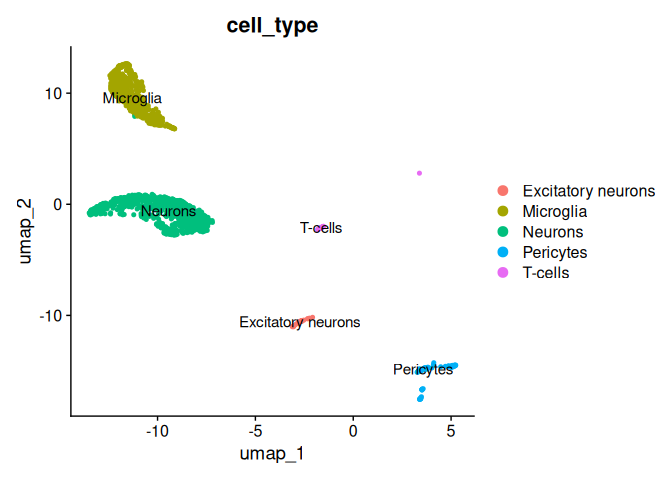
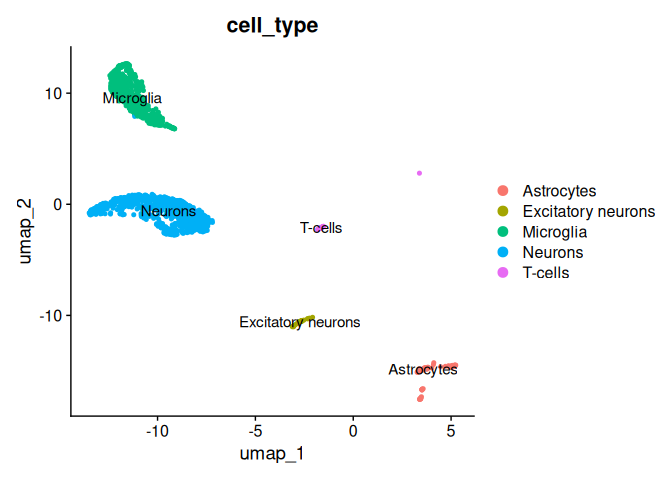
new sc

diff --git a/scRNASeq/scExample.md b/scRNASeq/scExample.md
@@ -10,6 +10,7 @@ library(SCEVAN)
 library(Seurat)
 library(dplyr)
 library(readxl)
+library(data.table)
 ```
 
 ## Load the Data
@@ -19,7 +20,7 @@ We use a glioblastoma sample (NH17-161) form the study
 GSE211376</a>.
 
 ``` r
-count_mtx <- data.table::fread("https://github.com/ceccarellilab/CancerBioinformaticsCourse/raw/refs/heads/main/scRNASeq/sample_NH17-161_GSE211376.csv.gz")
+count_mtx <- fread("https://github.com/ceccarellilab/CancerBioinformaticsCourse/raw/refs/heads/main/scRNASeq/sample_NH17-161_GSE211376.csv.gz")
 rownames(count_mtx)<- count_mtx$V1
 count_mtx$V1 <- NULL
 ```
@@ -29,6 +30,11 @@ count_mtx$V1 <- NULL
 We can use
 <a target="_blank" href="https://github.com/AntonioDeFalco/SCEVAN">
 SCEVAN</a> to classify tumor/normal cells.
+
+<figure>
+<img src="./img/SCEVAN.jpg" alt="SCEVAN workflow" />
+<figcaption aria-hidden="true">SCEVAN workflow</figcaption>
+</figure>
 
 *SCEVAN* starts from the raw count matrix removing irrelevant genes and
 cells. *a* Identification of a small set of highly confident normal
@@ -45,11 +51,10 @@ classified in five copy number states. *h* Analysis of subclones
 including clone tree, pathway activities (GSEA was performed for each
 subclone using fgseaMultilevel which calculates P values based on an
 adaptive multilevel splitting Monte Carlo scheme), and characterization
-of shared and specific alterations. \<img
-src=“<https://www.nature.com/articles/s41467-023-36790-9/figures/1>”,
-alt=“SCEVAn Workflow”\>
+of shared and specific alterations.
 
 ``` r
+#CAN TAKE THREE-FIVE MINUTES
 results <-  SCEVAN::pipelineCNA(
   count_mtx = count_mtx, 
   sample = "NH17-161", 
@@ -78,7 +83,7 @@ results <-  SCEVAN::pipelineCNA(
     ## [1] "11) plot heatmap"
 
     ## [1] "found 2898 tumor cells"
-    ## [1] "time classify tumor cells:  2.78494794368744"
+    ## [1] "time classify tumor cells:  2.66238601605097"
 
 ``` r
 saveRDS(results, file = "resultSCEVAN_N17-161.RDS")
@@ -94,6 +99,10 @@ table(results[[1]])
     ## 
     ## filtered   normal    tumor 
     ##        5     1454     2898
+
+In the `output` folder you can finde the images `NH17-161heatmap.png`
+and `NH17-161_coarse-grainedClonalCNProfile.png` containing the
+tumor/normal classification and the detected copy number profiles.
 
 ![heatmap](./output/NH17-161heatmap.png)
 ![heatmap](./output/NH17-161_coarse-grainedClonalCNProfile.png)
@@ -123,8 +132,8 @@ VlnPlot(seurObj, features =
         ncol = 3)
 ```
 
-    ## Warning: Default search for "data" layer in "RNA" assay yielded no results; utilizing "counts" layer
-    ## instead.
+    ## Warning: Default search for "data" layer in "RNA" assay yielded no results;
+    ## utilizing "counts" layer instead.
 
 ![](scExample_files/figure-gfm/mito-1.png)<!-- -->
 
@@ -248,27 +257,27 @@ seurObj <-  FindClusters(seurObj,resolution = 0.2)
 seurObj <-  RunUMAP(seurObj, dims = 1:20)
 ```
 
-    ## 10:19:53 UMAP embedding parameters a = 0.9922 b = 1.112
+    ## 12:10:54 UMAP embedding parameters a = 0.9922 b = 1.112
 
-    ## 10:19:53 Read 4328 rows and found 20 numeric columns
+    ## 12:10:54 Read 4328 rows and found 20 numeric columns
 
-    ## 10:19:53 Using Annoy for neighbor search, n_neighbors = 30
+    ## 12:10:54 Using Annoy for neighbor search, n_neighbors = 30
 
-    ## 10:19:53 Building Annoy index with metric = cosine, n_trees = 50
+    ## 12:10:54 Building Annoy index with metric = cosine, n_trees = 50
 
     ## 0%   10   20   30   40   50   60   70   80   90   100%
 
     ## [----|----|----|----|----|----|----|----|----|----|
 
     ## **************************************************|
-    ## 10:19:53 Writing NN index file to temp file /tmp/RtmpjHu5FP/file2a11fc2c5e639
-    ## 10:19:53 Searching Annoy index using 1 thread, search_k = 3000
-    ## 10:19:54 Annoy recall = 100%
-    ## 10:19:57 Commencing smooth kNN distance calibration using 1 thread with target n_neighbors = 30
-    ## 10:20:03 Initializing from normalized Laplacian + noise (using RSpectra)
-    ## 10:20:03 Commencing optimization for 500 epochs, with 174288 positive edges
-    ## 10:20:03 Using rng type: pcg
-    ## 10:20:09 Optimization finished
+    ## 12:10:54 Writing NN index file to temp file /tmp/RtmpnFYK0q/file35eb1c660e3a97
+    ## 12:10:54 Searching Annoy index using 1 thread, search_k = 3000
+    ## 12:10:55 Annoy recall = 100%
+    ## 12:10:56 Commencing smooth kNN distance calibration using 1 thread with target n_neighbors = 30
+    ## 12:10:59 Initializing from normalized Laplacian + noise (using RSpectra)
+    ## 12:10:59 Commencing optimization for 500 epochs, with 174288 positive edges
+    ## 12:10:59 Using rng type: pcg
+    ## 12:11:04 Optimization finished
 
 ``` r
 # Optional: plot UMAP
@@ -295,28 +304,29 @@ geneSet<-as.list(na.omit(geneSet))
 seurObj <- AddModuleScore(seurObj, features = geneSet, name = names(geneSet))
 ```
 
-    ## Warning: The following features are not present in the object: ADM, WARS, ERO1L, not searching for symbol
-    ## synonyms
-
-    ## Warning: The following features are not present in the object: CHI3L1, S100A10, C8orf4, not searching for
-    ## symbol synonyms
-
-    ## Warning: The following features are not present in the object: PCDHGC3, not searching for symbol synonyms
-
-    ## Warning: The following features are not present in the object: SOX2-OT, LPPR1, PCDHGC3, not searching for
-    ## symbol synonyms
-
-    ## Warning: The following features are not present in the object: TUBB3, CD24, FXYD6, HN1, not searching for
-    ## symbol synonyms
-
-    ## Warning: The following features are not present in the object: STMN2, CD24, HMP19, TUBB3, DLX6-AS1, DLX5,
-    ## HN1, SEPT3, not searching for symbol synonyms
-
-    ## Warning: The following features are not present in the object: KIAA0101, HIST1H4C, MLF1IP, RNASEH2A, FEN1,
-    ## ZWINT, not searching for symbol synonyms
-
-    ## Warning: The following features are not present in the object: CCNB1, CDC20, TROAP, KIF20A, ARL6IP1, SPAG5,
+    ## Warning: The following features are not present in the object: ADM, WARS, ERO1L,
     ## not searching for symbol synonyms
+
+    ## Warning: The following features are not present in the object: CHI3L1, S100A10,
+    ## C8orf4, not searching for symbol synonyms
+
+    ## Warning: The following features are not present in the object: PCDHGC3, not
+    ## searching for symbol synonyms
+
+    ## Warning: The following features are not present in the object: SOX2-OT, LPPR1,
+    ## PCDHGC3, not searching for symbol synonyms
+
+    ## Warning: The following features are not present in the object: TUBB3, CD24,
+    ## FXYD6, HN1, not searching for symbol synonyms
+
+    ## Warning: The following features are not present in the object: STMN2, CD24,
+    ## HMP19, TUBB3, DLX6-AS1, DLX5, HN1, SEPT3, not searching for symbol synonyms
+
+    ## Warning: The following features are not present in the object: KIAA0101,
+    ## HIST1H4C, MLF1IP, RNASEH2A, FEN1, ZWINT, not searching for symbol synonyms
+
+    ## Warning: The following features are not present in the object: CCNB1, CDC20,
+    ## TROAP, KIF20A, ARL6IP1, SPAG5, not searching for symbol synonyms
 
 ``` r
 cellTypes <- names(geneSet)
@@ -324,7 +334,7 @@ cellTypes <- names(geneSet)
 #score name  
 n = ncol(seurObj@meta.data)
 m = length(cellTypes)
-View(seurObj@meta.data)
+#View(seurObj@meta.data)
 colnames(seurObj@meta.data)[n]<- cellTypes[m]
 colnames(seurObj@meta.data)[n-1]<- cellTypes[m-1]
 colnames(seurObj@meta.data)[n-2]<- cellTypes[m-2]
@@ -333,7 +343,8 @@ colnames(seurObj@meta.data)[n-4]<- cellTypes[m-4]
 colnames(seurObj@meta.data)[n-5]<- cellTypes[m-5]
 colnames(seurObj@meta.data)[n-6]<- cellTypes[m-6]
 colnames(seurObj@meta.data)[n-7]<- cellTypes[m-7]
-View(seurObj@meta.data)
+
+#View(seurObj@meta.data)
 #You could get the same result with:
 #for (i in c(m:1)) {
 #  colnames(seurObj@meta.data)[n-i+1] <-  cellTypes[m-i+1]
@@ -341,19 +352,19 @@ View(seurObj@meta.data)
   
 #colnames(seurObj@meta.data)[(ncol(seurObj@meta.data)-length(names(geneSet))+1):ncol(seurObj@meta.data)] <- cellTypes
 
+#select the metadata table of malignant cells 
 maligant_cells <- filter(seurObj@meta.data, type == "tumor") 
 subtype_scores <- select(maligant_cells, all_of(cellTypes)) 
+
+#classify each malignant cell accorting to the maximum score among cell states
 class_mal <- apply(subtype_scores, 1, function(x) cellTypes[which.max(x)])
 
+#add this information to the metadata
+seurObj <- AddMetaData(seurObj, metadata = class_mal, col.name = "cell_type_mal")
 
 
 tumor_colors <- c("darkgreen", "yellow", "orange", "red", "darkred", "darkblue", "blue", "lightblue")
 names(tumor_colors)<- sort(cellTypes)
-
-
-
-
-seurObj <- AddMetaData(seurObj, metadata = class_mal, col.name = "cell_type_mal")
 Seurat::DimPlot(seurObj,group.by =  "cell_type_mal", cols =
                   tumor_colors)
 ```
@@ -390,17 +401,17 @@ markers_normal <- FindAllMarkers(seurObj_norm,
 ``` r
 top_markers <- markers_normal %>%
   group_by(cluster) %>%
-  top_n(n = 10, wt = avg_log2FC) 
-View(top_markers)
+  top_n(n = 20, wt = -p_val_adj) 
+#View(top_markers)
 ```
 
 ``` r
-DoHeatmap(seurObj_norm, features = top_markers$gene,) 
+DoHeatmap(seurObj_norm, features = top_markers$gene) 
 ```
 
-    ## Warning in DoHeatmap(seurObj_norm, features = top_markers$gene, ): The following features were omitted as
-    ## they were not found in the scale.data slot for the RNA assay: RAI2, AC090138.1, NR0B1, MEGF11, PRDM16-DT,
-    ## PAX6, ARL11, TLR7, CEBPA, HRH2, PTGS1, AL121656.1, LINC02473, TMEM151A, PLCH2
+    ## Warning in DoHeatmap(seurObj_norm, features = top_markers$gene): The following
+    ## features were omitted as they were not found in the scale.data slot for the RNA
+    ## assay: CCDC88C, ACAP1, ITGA4, IKZF3, RNF165, CACNG4, IGSF9B, CELF2
 
 ![](scExample_files/figure-gfm/heatmap-1.png)<!-- -->
 
@@ -408,9 +419,9 @@ DoHeatmap(seurObj_norm, features = top_markers$gene,)
 #cluster 2 --> "Neurons"
 p1<-FeaturePlot(seurObj_norm,features = "KIRREL3")
 #cluster 4 --> "Microglia"
-p2<-FeaturePlot(seurObj_norm, features = "CD163")
-#cluster 6 --> "Pericytes"
-p3<- FeaturePlot(seurObj_norm, features = "PDGFRB")
+p2<-FeaturePlot(seurObj_norm, features = "CSF1R")
+#cluster 6 --> "Astrocytes"
+p3<- FeaturePlot(seurObj_norm, features = "IGFBP7")
 #cluster 7 --> "Excitatory neurons"
 p4 <- FeaturePlot(seurObj_norm, features = "GRIN2B")
 #custer 8 --> "Tcells"
@@ -418,10 +429,41 @@ p5 <- FeaturePlot(seurObj_norm, features = "ITK")
 ```
 
 ``` r
-seurObj_norm$cell_type <- as.character(seurObj_norm$seurat_clusters)
+p1
+```
+
+![](scExample_files/figure-gfm/unnamed-chunk-38-1.png)<!-- -->
+
+``` r
+p2
+```
+
+![](scExample_files/figure-gfm/unnamed-chunk-39-1.png)<!-- -->
+
+``` r
+p3
+```
+
+![](scExample_files/figure-gfm/unnamed-chunk-40-1.png)<!-- -->
+
+``` r
+p4
+```
+
+![](scExample_files/figure-gfm/unnamed-chunk-41-1.png)<!-- -->
+
+``` r
+p5
+```
+
+![](scExample_files/figure-gfm/unnamed-chunk-42-1.png)<!-- -->
+
+``` r
+seurObj_norm$cell_type <-"" 
+
 seurObj_norm$cell_type[seurObj_norm$seurat_clusters == 2] <- "Neurons"
 seurObj_norm$cell_type[seurObj_norm$seurat_clusters == 4] <- "Microglia"
-seurObj_norm$cell_type[seurObj_norm$seurat_clusters == 6] <- "Pericytes"
+seurObj_norm$cell_type[seurObj_norm$seurat_clusters == 6] <- "Astrocytes"
 seurObj_norm$cell_type[seurObj_norm$seurat_clusters == 7] <- "Excitatory neurons" 
 seurObj_norm$cell_type[seurObj_norm$seurat_clusters == 8] <- "T-cells"
 DimPlot(seurObj_norm, group.by = "cell_type", label = TRUE)
@@ -430,7 +472,10 @@ DimPlot(seurObj_norm, group.by = "cell_type", label = TRUE)
 ![](scExample_files/figure-gfm/features-1.png)<!-- -->
 
 ``` r
+#add these cl;assification to the original object
 seurObj<-AddMetaData(seurObj,seurObj_norm$cell_type,col.name = "cell_type_norm")
+
+#merge the two annotations
 seurObj$cell_type <- ifelse(!is.na(seurObj$cell_type_mal),
                             seurObj$cell_type_mal,
                             seurObj$cell_type_norm
@@ -439,18 +484,23 @@ table(seurObj$cell_type)
 ```
 
     ## 
-    ##                 AC Excitatory neurons               G1/S               G2/M               MES1 
-    ##                502                 41                 37                 14                 16 
-    ##               MES2          Microglia            Neurons               NPC1               NPC2 
-    ##                  9                573                733                184                 32 
-    ##                OPC          Pericytes            T-cells 
-    ##               2079                 68                 29
+    ##                 AC         Astrocytes Excitatory neurons               G1/S 
+    ##                502                 68                 41                 37 
+    ##               G2/M               MES1               MES2          Microglia 
+    ##                 14                 16                  9                573 
+    ##            Neurons               NPC1               NPC2                OPC 
+    ##                733                184                 32               2079 
+    ##            T-cells 
+    ##                 29
 
 ``` r
+#plot everything
 normal_colors <- c("goldenrod", "grey40", "purple","forestgreen", "brown" )
 names(normal_colors) <- c("Microglia", "Neurons", "Excitatory neurons", "Pericytes", "T-cells")
 cell_colors <- c(tumor_colors, normal_colors)
-DimPlot(seurObj, group.by = "cell_type", label = TRUE, cols = cell_colors) 
+DimPlot(seurObj, group.by = "cell_type", 
+        label = TRUE, 
+        cols = cell_colors) 
 ```
 
-![](scExample_files/figure-gfm/unnamed-chunk-6-1.png)<!-- -->
+![](scExample_files/figure-gfm/unnamed-chunk-43-1.png)<!-- -->
